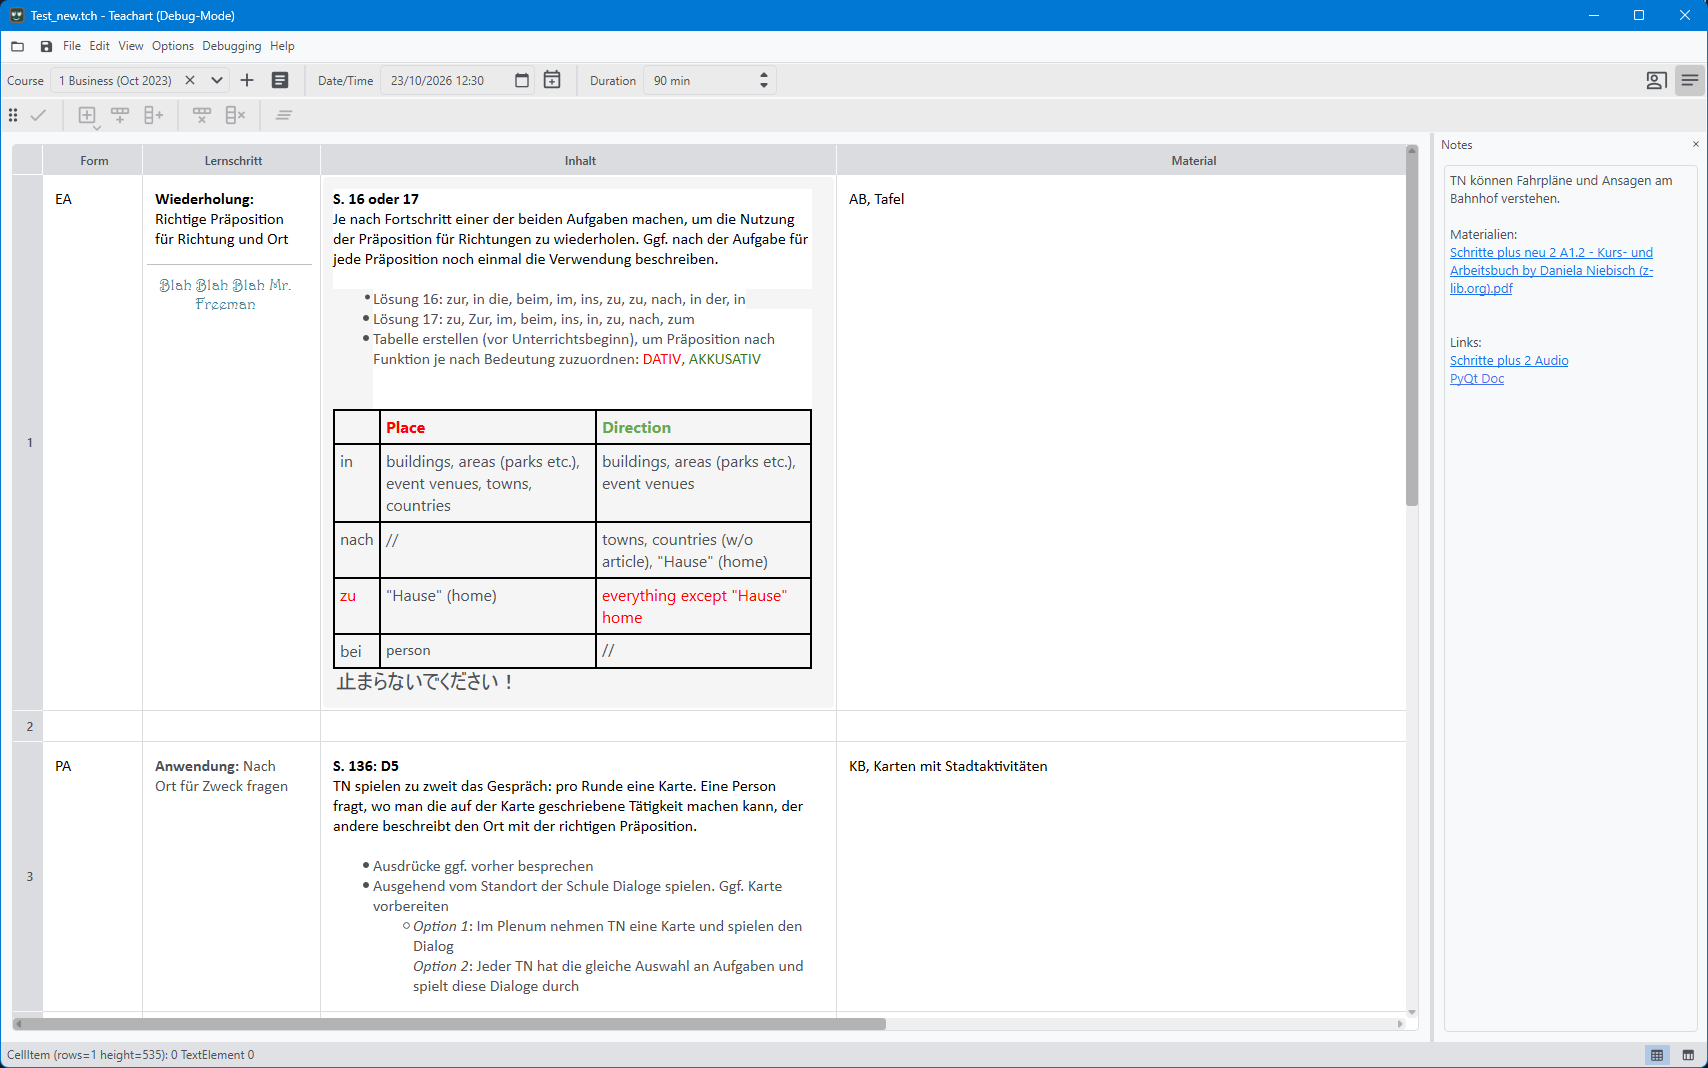
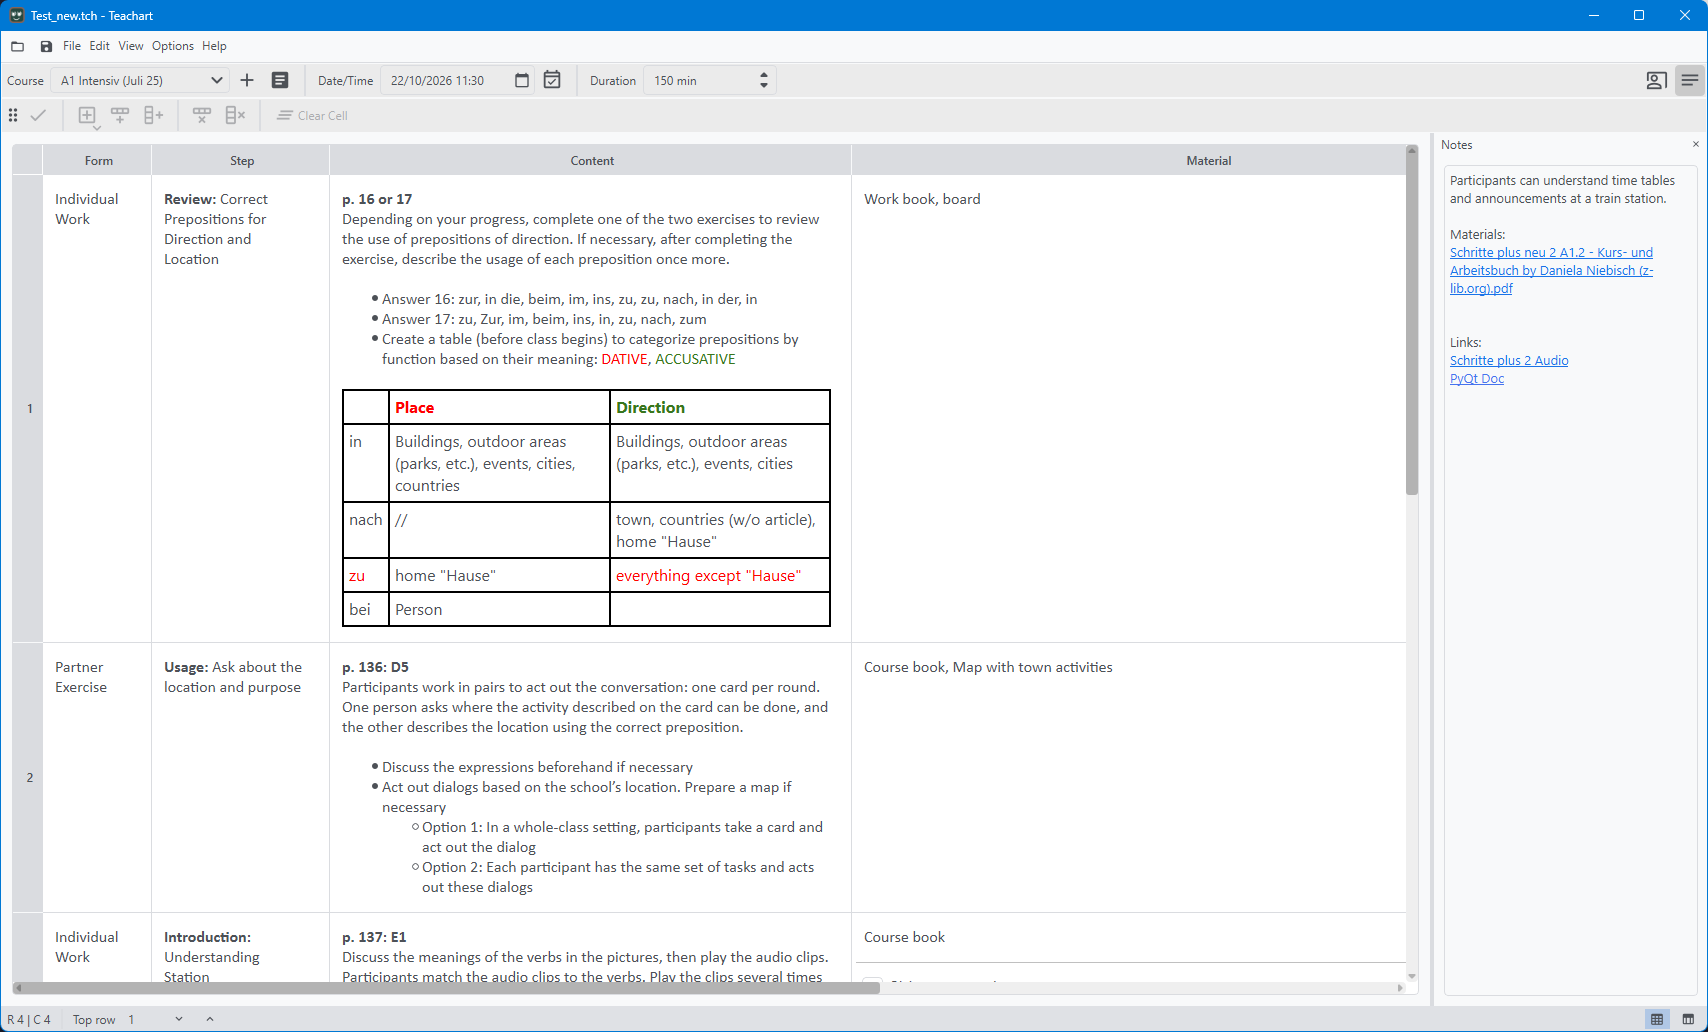
Fixed issue in drag&dropping cells between Table and FrozenTable

diff --git a/source/tcha/table.py b/source/tcha/table.py
@@ -861,7 +861,7 @@ class BaseTable(QTableView):
         if self.selectionModel():
             self.selectionModel().clearCurrentIndex()
         if self.editor:
-            self.editor.disconnect()
+            # self.editor.disconnect()
             self.closeEditor(self.editor, hint)
 
     def closeEditor(self, editor: CellEditor | None, hint: QStyledItemDelegate.EndEditHint) -> None:
@@ -896,6 +896,7 @@ class BaseTable(QTableView):
                     )
                     drag.setMimeData(mime_data)
                     drag.exec(Qt.DropAction.MoveAction)
+                    self.close_active_editor()
 
         if event.modifiers() & Qt.KeyboardModifier.ControlModifier or (
             self._element_selection and not event.modifiers() & Qt.KeyboardModifier.ControlModifier
@@ -954,6 +955,7 @@ class BaseTable(QTableView):
 
         # Item is dropped on a different index
         if drop_index.isValid():
+            self.close_active_editor()
             success = self.model().dropMimeData(
                 event.mimeData(),
                 event.dropAction(),
@@ -1140,7 +1142,7 @@ class Table(BaseTable):
 
     def close_active_editor(self, hint=QStyledItemDelegate.EndEditHint.NoHint):
         if self.has_frozen_row() and self.frozen_table.state() == QTableView.State.EditingState:
-            self.frozen_table.close_active_editor()
+            self.frozen_table.close_active_editor(hint)
         else:
             super().close_active_editor(hint)
 
@@ -1462,6 +1464,7 @@ class Table(BaseTable):
         super().wheelEvent(ev)
 
     def show_context_menu(self, position):
+        # NOT FUNCTIONAL ATM
         index = self.indexAt(position)
         if not index.isValid():
             return
@@ -1497,6 +1500,7 @@ class Table(BaseTable):
 
 class FrozenRowTable(BaseTable):
     unfrozen = pyqtSignal()
+    sizeChanged = pyqtSignal(int)
 
     def __init__(self, parent_table: Table, parent=None):
         super().__init__(parent)
@@ -1553,6 +1557,7 @@ class FrozenRowTable(BaseTable):
                     self.verticalHeader().setSectionHidden(row, False)
 
         self.show()
+        self.sizeChanged.emit(self.rowHeight(self._frozen_row) + 35)
 
     def unfreeze(self) -> None:
         self.setModel(None)
@@ -1572,8 +1577,7 @@ class FrozenRowTable(BaseTable):
 
     def paste_index(self, mime_data):
         super().paste_index(mime_data)
-        self.hideRow(self._frozen_row)
-        self.showRow(self._frozen_row)
+        self.sizeChanged.emit(self.sizeHint().height())
 
     def add_column_after_current(self) -> None:
         if self._table.currentIndex().isValid():
@@ -1596,7 +1600,7 @@ class FrozenRowTable(BaseTable):
             self._table.verticalHeader().moveSection(new_logical, visual_current + 1)
 
     def _update_size(self) -> None:
-        pass
+        self.sizeChanged.emit(self.sizeHint().height())
         # self.freeze_row(self.model(), self.frozen_row)
 
     def _on_rows_inserted(self, parent: QModelIndex, first: int, last: int) -> None:
@@ -1615,25 +1619,22 @@ class FrozenRowTable(BaseTable):
             self.horizontalScrollBar().blockSignals(False)
 
     def dropEvent(self, event):
+        self._table.close_active_editor()
         super().dropEvent(event)
         if event.isAccepted():
-            self.hide()
-            self.show()
-            self.setState(QTableView.State.NoState)
-            self.viewport().update()
+            self.sizeChanged.emit(self.sizeHint().height())
 
     def sizeHint(self) -> QSize:
         if self.model():
             height = self.rowHeight(self._frozen_row) + 35
-            if height > self.parent().height():
-                return QSize(self.width(), self.parent().height() // 2)
             return QSize(self.width(), height)
         else:
             return super().sizeHint()
 
     def update_row_geometries(self, index: QModelIndex = QModelIndex()):
         super().update_row_geometries(index)
-        self.adjustSize()
+        self._table.update_row_geometries(index)
+        self.sizeChanged.emit(self.sizeHint().height())
 
     def wheelEvent(self, ev: QWheelEvent):
         if ev.angleDelta().x() != 0:

diff --git a/source/ui/ui_editor.py b/source/ui/ui_editor.py
@@ -41,6 +41,11 @@ from ui.commons import MultiLabelAction, NoteEdit, SearchableComboBox, SwitchAct
 
 
 class Ui_Editor(object):
+    def adjust_tables_size(self, height: int) -> None:
+        frozen_table_height = min(self.split_table.height() // 2, height)
+        table_height = self.table.height() - frozen_table_height
+        self.split_table.setSizes([frozen_table_height, table_height])
+
     def setupUi(self, MainWindow: QMainWindow):
         MainWindow.setObjectName("EditorView")
         MainWindow.resize(Settings.value("Application/editor.window_size"))
@@ -59,10 +64,12 @@ class Ui_Editor(object):
         self.vl2.setObjectName("vl2")
 
         self.split_table = QSplitter(Qt.Orientation.Vertical, self.centralwidget)
+        self.split_table.setChildrenCollapsible(False)
 
         self.table = Table(self.centralwidget)
         self.table.setObjectName("Table")
         self.table.sizesSplitted.connect(lambda x: self.split_table.moveSplitter(x, 0))
+        self.table.frozen_table.sizeChanged.connect(self.adjust_tables_size)
 
         self.split_table.addWidget(self.table.frozen_table)
         self.split_table.addWidget(self.table)
@@ -905,6 +912,12 @@ class Ui_Editor(object):
             d[key] = toolset
         self.table.set_toolset_reference(d)
         self.table.itemDelegate().set_delegates(
+            {
+                definition.name(): definition.delegate(None, self.table.itemDelegate().parent())
+                for definition in edefinitions.values()
+            }
+        )
+        self.table.frozen_table.itemDelegate().set_delegates(
             {
                 definition.name(): definition.delegate(None, self.table.itemDelegate().parent())
                 for definition in edefinitions.values()

diff --git a/source/tcha/resmanager.py b/source/tcha/resmanager.py
@@ -48,7 +48,6 @@ class ResourceObject(QObject):
     def delete_member(self) -> None:
         """Decreases member count in case a model stops using this resource"""
         self._member_count -= 1
-        print(f"New member count: {self._member_count}")
         if self._member_count < 1:
             StandardLogger.debug(
                 f"Object of name '{self.name}' and type '{self.type.name}' of no. {self.type_num} has expired.",

diff --git a/source/nativeelements/textelement.py b/source/nativeelements/textelement.py
@@ -1108,7 +1108,6 @@ class TextToolset(BaseElementToolset):
             svg = Svg.from_file(":/common/text_color")
             ic_engine = SvgIconEngine(svg)
             if color.isValid():
-                print("Color set: ", color.name())
                 ic_engine.set_path_color("lineBottom", color)
             else:
                 ic_engine.set_path_color("lineBottom", self.palette().text().color())

diff --git a/README.md b/README.md
@@ -1,0 +1,1 @@
+Teachart
